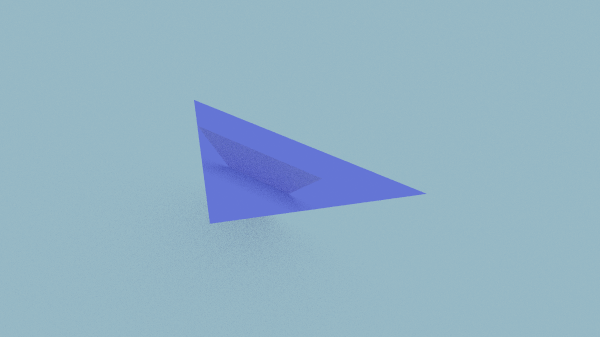
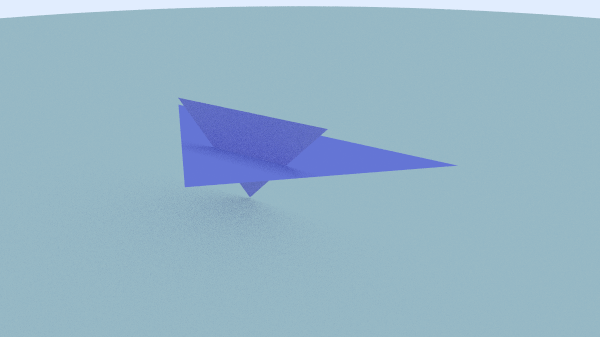
updated BVH

Changed region(s): [[0.3, 0.2967, 0.75, 0.6825], [0.0, 0.0, 1.0, 0.0593]]

diff --git a/Reza_Raytracer/BVHNode.cpp b/Reza_Raytracer/BVHNode.cpp
@@ -4,14 +4,98 @@
 #include "BVHNode.h"
 
 
-
-BVHNode::BVHNode(const std::vector<shared_ptr<Hittable>>& src_objects, size_t start, size_t end) 
+// improved constructor without random
+// github.com/RayTracing/TheRestOfYourLife/blob/master/src/bvh.h
+BVHNode::BVHNode(const std::vector<shared_ptr<Hittable>>& src_objects, 
+                 size_t start, 
+                 size_t end)
 {
+    // need to be optimized because we duplicate shared_ptrs
+    auto objects = src_objects; 
+
+    // assign first object's BB to box
+    objects[start]->BoundingBox(node_box);
+    AABB dummy_box;
+    for(int i = start + 1; i < end; i++)
+    {
+        bool has_bb = objects[i]->BoundingBox(dummy_box);
+        if (!has_bb)
+        {
+            std::cerr << "No bounding box in bvh_node constructor.\n";
+        }
+        // update box
+        node_box = SurroundingBox(node_box, dummy_box);
+    }
+
+    int axis = node_box.LongestAxis();
+    auto comparator = (axis == 0) ? BoxXCompare
+                    : (axis == 1) ? BoxYCompare
+                                  : BoxZCompare;
+
+    size_t object_span = end - start;
+
+    // creating a tree
+    if (object_span == 1)
+    {
+        // pointing to the same object
+        left_node = right_node = objects[start];
+        num_actual_object = 1;
+
+        // debugging
+        std::cout << "Single AABB area = " << node_box.Area() << 
+            " Min = (" << node_box.Min()[0] << ", " << node_box.Min()[1] << ", " << node_box.Min()[2] << ")" <<
+            " Max = (" << node_box.Max()[0] << ", " << node_box.Max()[1] << ", " << node_box.Max()[2] << ")" << '\n';
+    }
+    else if (object_span == 2)
+    {
+        if (comparator(objects[start], objects[start + 1]))
+        {
+            left_node  = objects[start];
+            right_node = objects[start + 1];
+        }
+        else
+        {
+            left_node  = objects[start + 1];
+            right_node = objects[start];
+        }
+
+        num_actual_object = 2;
+        AABB left_box;
+        left_node->BoundingBox(left_box);
+        AABB right_box;
+        right_node->BoundingBox(right_box);
+
+        // debugging
+        std::cout << "Left AABB area = " << left_box.Area() <<
+            " Min = (" << left_box.Min()[0] << ", " << left_box.Min()[1] << ", " << left_box.Min()[2] << ")" <<
+            " Max = (" << left_box.Max()[0] << ", " << left_box.Max()[1] << ", " << left_box.Max()[2] << ")" << '\n';
+
+        std::cout << "Right AABB area = " << right_box.Area() <<
+            " Min = (" << right_box.Min()[0] << ", " << right_box.Min()[1] << ", " << right_box.Min()[2] << ")" <<
+            " Max = (" << right_box.Max()[0] << ", " << right_box.Max()[1] << ", " << right_box.Max()[2] << ")" << '\n';
+    }
+    else
+    {
+        // binary partitioning
+        std::sort(objects.begin() + start, objects.begin() + end, comparator);
+
+        auto mid = start + object_span / 2;
+        left_node  = make_shared<BVHNode>(objects, start, mid);
+        right_node = make_shared<BVHNode>(objects, mid, end);
+    }
+
+}
+
+// original constructor
+void 
+BVHNode::BVHNode_Old(const std::vector<shared_ptr<Hittable>>& src_objects, size_t start, size_t end) 
+{
+    // need to be optimized because we duplicate shared_ptrs
     auto objects = src_objects; // Create a modifiable array of the source scene objects
 
     // comparator is just a ternary operator
     // bool (*comparator)(shared_ptr<Hittable> a, shared_ptr<Hittable> b)
-    int axis = RandomInt(0, 2);
+    int axis = RandomInt(0, 2); // can be replaced with the longest axis
     auto comparator = (axis == 0) ? BoxXCompare
                     : (axis == 1) ? BoxYCompare
                                   : BoxZCompare;
@@ -22,20 +106,23 @@ BVHNode::BVHNode(const std::vector<shared_ptr<Hittable>>& src_objects, size_t st
     if (object_span == 1) 
     {
         // pointing to the same object
-        left = right = objects[start];
+        left_node = right_node = objects[start];
+        num_actual_object = 1;
     }
     else if (object_span == 2) 
     {
         if (comparator(objects[start], objects[start + 1]) ) 
         {
-            left = objects[start];
-            right = objects[start + 1];
+            left_node = objects[start];
+            right_node = objects[start + 1];
         }
         else 
         {
-            left = objects[start + 1];
-            right = objects[start];
+            left_node  = objects[start + 1];
+            right_node = objects[start];
         }
+
+        num_actual_object = 2;
     }
     else 
     {
@@ -43,37 +130,38 @@ BVHNode::BVHNode(const std::vector<shared_ptr<Hittable>>& src_objects, size_t st
         std::sort(objects.begin() + start, objects.begin() + end, comparator);
 
         auto mid = start + object_span / 2;
-        left  = make_shared<BVHNode>(objects, start, mid);
-        right = make_shared<BVHNode>(objects, mid, end);
+        left_node  = make_shared<BVHNode>(objects, start, mid);
+        right_node = make_shared<BVHNode>(objects, mid, end);
     }
 
     AABB box_left;
     AABB box_right;
 
-    if (!left->BoundingBox(box_left) || !right->BoundingBox(box_right) )
+    if (!left_node->BoundingBox(box_left) || !right_node->BoundingBox(box_right) )
     {
         std::cerr << "No bounding box in bvh_node constructor.\n";
     }
 
-    box = SurroundingBox(box_left, box_right);
+    node_box = SurroundingBox(box_left, box_right);
 }
 
 bool BVHNode::Hit(const Ray3& r, double t_min, double t_max, HitRecord& rec) const
 {
-    if (!box.Hit(r, t_min, t_max))
+    
+    if (!node_box.Hit(r, t_min, t_max))
     {
         return false;
     }
 
     // recursive
-    bool hit_left  = left->Hit( r, t_min, t_max,                    rec);
-    bool hit_right = right->Hit(r, t_min, hit_left ? rec.t : t_max, rec);
+    bool hit_left  = left_node->Hit( r, t_min, t_max,                    rec);
+    bool hit_right = right_node->Hit(r, t_min, hit_left ? rec.t : t_max, rec);
 
     return hit_left || hit_right;
 }
 
 bool BVHNode::BoundingBox(AABB& output_box) const
 {
-    output_box = box;
+    output_box = node_box;
     return true;
 }

diff --git a/Reza_Raytracer/BVHNode.h b/Reza_Raytracer/BVHNode.h
@@ -16,10 +16,17 @@ class BVHNode : public Hittable
 private:
     // only the leaf that has an actual object,
     // other else is BVHNode
-    shared_ptr<Hittable> left;
-    shared_ptr<Hittable> right;
+    shared_ptr<Hittable> left_node;
+    shared_ptr<Hittable> right_node;
 
-    AABB box;
+    
+
+public:
+    // for debugging purpose
+    // the number of actual objects the node contains
+    size_t num_actual_object = 0;
+
+    AABB node_box;
 
 public:
     BVHNode();
@@ -35,9 +42,15 @@ public:
     {
     }
 
-    BVHNode(const std::vector<shared_ptr<Hittable>>& src_objects, 
-            size_t start, 
+    BVHNode(const std::vector<shared_ptr<Hittable>>& src_objects,
+            size_t start,
             size_t end);
+
+    // original constructor
+    void 
+    BVHNode_Old(const std::vector<shared_ptr<Hittable>>& src_objects, 
+                size_t start, 
+                size_t end);
 
     virtual bool Hit( const Ray3& r, double t_min, double t_max, HitRecord& rec) const override;
 

diff --git a/Reza_Raytracer/HittableList.cpp b/Reza_Raytracer/HittableList.cpp
@@ -47,13 +47,13 @@ void HittableList::CreateWorld()
     //objects.push_back(make_shared<Sphere>(Point3(0, 0, -1),    2.5, material_center) );*/
     objects.push_back(make_shared<Sphere>(Point3(0, -100, -1), 100, material_ground) );
         
-    objects.push_back(make_shared<Triangle>(Point3( 0, 0.25, 0),
-											Point3(1, 0.25, -1),
+    objects.push_back(make_shared<Triangle>(Point3( 0, 0.25,  0),
+											Point3( 1, 0.25, -1),
 										    Point3(-1, 0.25, -1),        
 										    material_center));
 
-    objects.push_back(make_shared<Triangle>(Point3(0, 0, -0.5),
-										    Point3(0.5, 0.5, -0.5),
+    objects.push_back(make_shared<Triangle>(Point3(   0,  0,  -0.5),
+										    Point3( 0.5, 0.5, -0.5),
 										    Point3(-0.5, 0.5, -0.5),
 										    material_center));
 

diff --git a/Reza_Raytracer/AABB.cpp b/Reza_Raytracer/AABB.cpp
@@ -42,3 +42,29 @@ bool AABB::Hit(const Ray3& r, double t_min, double t_max) const
 	}
 	return true;
 }
+
+int AABB::LongestAxis() const
+{
+	float x = maximum.x() - minimum.x();
+	float y = maximum.y() - minimum.y();
+	float z = maximum.z() - minimum.z();
+
+	if (x > y && x > z)
+	{
+		return 0;
+	}
+	else if (y > z)
+	{
+		return 1;
+	}
+
+	return 2;
+}
+
+double AABB::Area() const
+{
+	float a = maximum.x() - minimum.x();
+	float b = maximum.y() - minimum.y();
+	float c = maximum.z() - minimum.z();
+	return 2 * (a * b + b * c + c * a);
+}

diff --git a/Reza_Raytracer/Camera.cpp b/Reza_Raytracer/Camera.cpp
@@ -9,7 +9,7 @@ Camera::Camera()
     (0,0,-1)
     (0,1,0)
      */
-    lookfrom = Point3(2, 3, 2);
+    lookfrom = Point3(2, 1.5, 2);
     lookat = Point3(0, 0, -1);
     vup = Vec3(0, 1, 0);
 	

diff --git a/Reza_Raytracer/AABB.h b/Reza_Raytracer/AABB.h
@@ -26,6 +26,10 @@ public:
 	{
 		return maximum;
 	}
+
+	int LongestAxis() const;
+
+	double Area() const;
 	
 	bool Hit(const Ray3& r, double t_min, double t_max) const;
 
